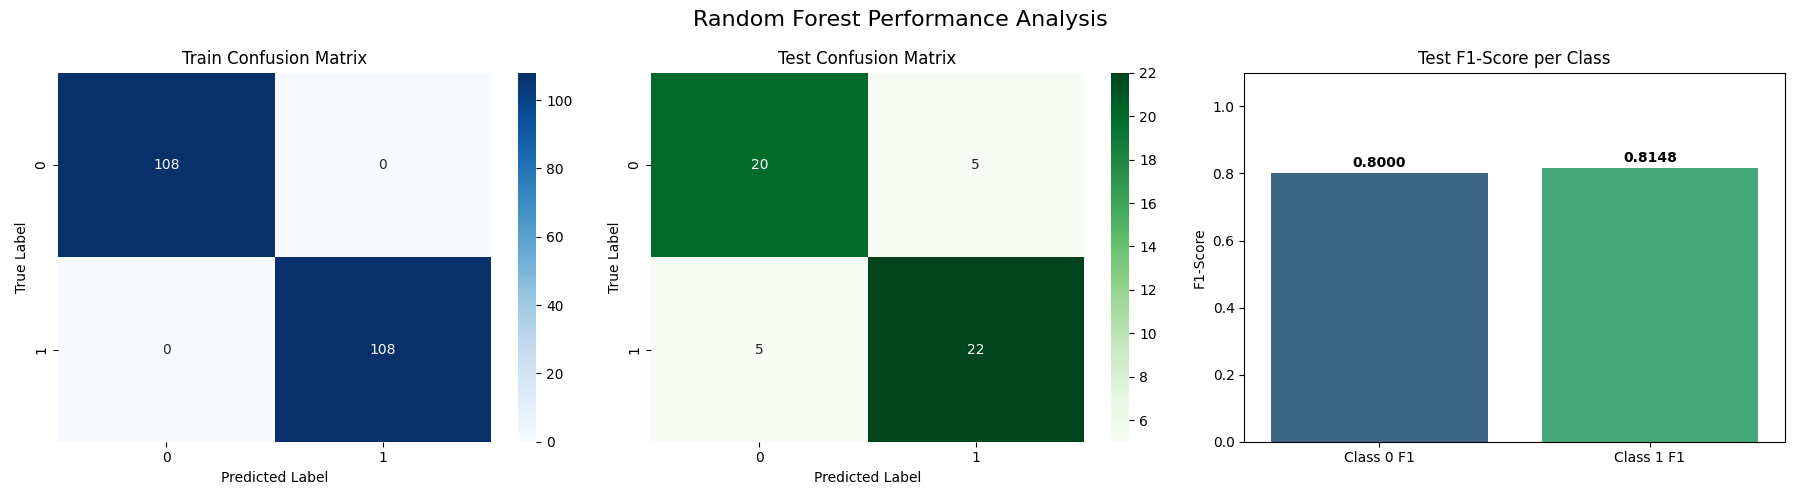
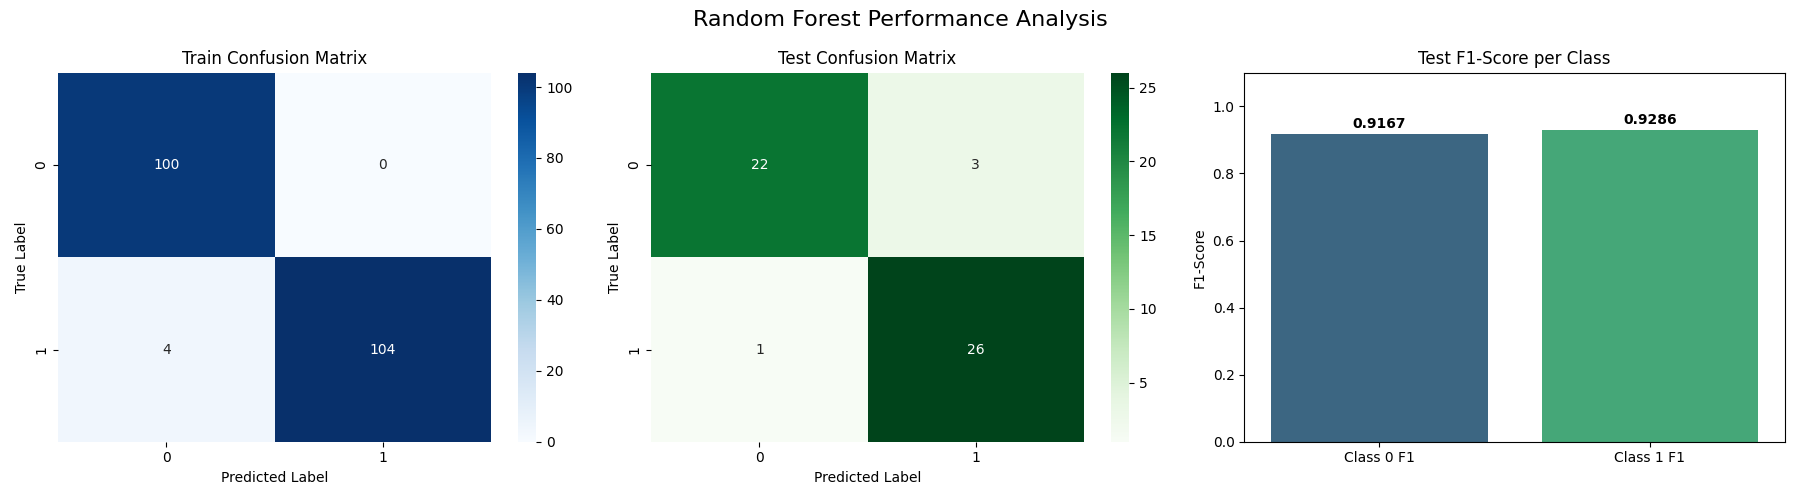
5cv, optuna, smote

diff --git a/models/main.py b/models/main.py
@@ -3,14 +3,22 @@ import numpy as np
 import os
 import matplotlib.pyplot as plt
 import seaborn as sns
-from sklearn.model_selection import train_test_split
+import optuna
+from sklearn.model_selection import train_test_split, cross_val_score, StratifiedKFold
 from sklearn.feature_extraction.text import TfidfVectorizer
 from imblearn.over_sampling import SMOTE
+from imblearn.pipeline import Pipeline
 from sklearn.linear_model import LogisticRegression
 from sklearn.ensemble import RandomForestClassifier
 from sklearn.neural_network import MLPClassifier
 from sklearn.metrics import accuracy_score, f1_score, confusion_matrix, classification_report
+import warnings
 
+
+SEED = 1935990857
+# Suppress warnings for cleaner output
+warnings.filterwarnings('ignore')
+optuna.logging.set_verbosity(optuna.logging.WARNING)
 
 def load_and_preprocess_data(filepath):
     print(f"Loading data from {filepath}...")
@@ -44,6 +52,51 @@ def load_and_preprocess_data(filepath):
     print(df['label'].value_counts(normalize=True))
     
     return df
+
+def objective(trial, model_name, X, y):
+    """
+    Optuna objective function for hyperparameter tuning.
+    Uses Pipeline(SMOTE, Classifier) to prevent data leakage.
+    """
+    if model_name == 'Logistic Regression':
+        C = trial.suggest_float('C', 1e-4, 1e2, log=True)
+        # Using lbfgs solver (default) which supports l2
+        clf = LogisticRegression(C=C, max_iter=1000, random_state=SEED)
+        
+    elif model_name == 'Random Forest':
+        n_estimators = trial.suggest_int('n_estimators', 50, 300)
+        max_depth = trial.suggest_int('max_depth', 5, 50)
+        min_samples_split = trial.suggest_int('min_samples_split', 2, 10)
+        clf = RandomForestClassifier(
+            n_estimators=n_estimators, 
+            max_depth=max_depth, 
+            min_samples_split=min_samples_split, 
+            random_state=SEED
+        )
+        
+    elif model_name == 'MLP / Neural Network':
+        hidden_layer_sizes = trial.suggest_categorical('hidden_layer_sizes', [(50,), (100,), (50, 50), (100, 50)])
+        learning_rate_init = trial.suggest_float('learning_rate_init', 1e-4, 1e-1, log=True)
+        alpha = trial.suggest_float('alpha', 1e-5, 1e-2, log=True)
+        clf = MLPClassifier(
+            hidden_layer_sizes=hidden_layer_sizes, 
+            learning_rate_init=learning_rate_init,
+            alpha=alpha,
+            max_iter=500, 
+            random_state=SEED
+        )
+    
+    # Pipeline: SMOTE -> Classifier
+    pipeline = Pipeline([
+        ('tfidf', TfidfVectorizer(stop_words='english', max_features=5000)),
+        ('smote', SMOTE(random_state=SEED)),
+        ('model', clf)
+    ])
+    
+    # 5-fold CV maximizing F1-score
+    cv = StratifiedKFold(n_splits=5, shuffle=True, random_state=SEED)
+    scores = cross_val_score(pipeline, X, y, cv=cv, scoring='f1')
+    return scores.mean()
 
 def train_and_evaluate(models, X_train, y_train, X_test, y_test):
     results = []
@@ -130,7 +183,7 @@ def main():
         df['text'], df['label'], 
         test_size=0.2, 
         stratify=df['label'], 
-        random_state=42,
+        random_state=SEED,
         shuffle=True
     )
     
@@ -143,31 +196,74 @@ def main():
     print(y_test.value_counts(normalize=True))
     
     # 2. Preprocessing & Vectorization
-    print("\nVectorizing text...")
-    vectorizer = TfidfVectorizer(stop_words='english', max_features=5000)
-    X_train_vec = vectorizer.fit_transform(X_train_raw)
-    X_test_vec = vectorizer.transform(X_test_raw)
+    # print("\nVectorizing text...")
+    # vectorizer = TfidfVectorizer(stop_words='english', max_features=5000)
+    # # X_train_vec = vectorizer.fit_transform(X_train_raw)
+    # # X_test_vec = vectorizer.transform(X_test_raw)
     
-    # 3. Apply SMOTE to training data
-    print("\nApplying SMOTE to balance the training set...")
-    smote = SMOTE(random_state=42)
-    X_train_resampled, y_train_resampled = smote.fit_resample(X_train_vec, y_train)
+    # 4. Hyperparameter Tuning with Optuna
+    print("\n=== Hyperparameter Tuning with Optuna ===")
     
-    print("New Train Set Distribution after SMOTE:")
-    print(y_train_resampled.value_counts(normalize=True))
-    
-    # 4. Model Selection
-    # - Logistic Regression (Classic)
-    # - Random Forest (Classic Ensemble)
-    # - MLP Classifier (Deep Learning - Neural Network)
-    models = {
-        'Logistic Regression': LogisticRegression(max_iter=1000, random_state=42),
-        'Random Forest': RandomForestClassifier(n_estimators=100, random_state=42),
-        'MLP / Neural Network': MLPClassifier(hidden_layer_sizes=(100, 50), max_iter=500, random_state=42)
-    }
-    
-    # 5. Training & Fine-tuning (MLP trains iteratively) & 6. Evaluation
-    results_df = train_and_evaluate(models, X_train_resampled, y_train_resampled, X_test_vec, y_test)
+    model_names = ['Logistic Regression', 'Random Forest', 'MLP / Neural Network']
+    best_models = {}
+
+    for model_name in model_names:
+        print(f"\n--- Tuning {model_name} ---")
+        
+        sampler = optuna.samplers.TPESampler(seed=SEED)
+        study = optuna.create_study(direction='maximize', sampler=sampler)
+        
+        study.optimize(
+            lambda trial: objective(trial, model_name, X_train_raw, y_train),
+            n_trials=50   # reduce from 100 → less overfitting
+        )
+        
+        print(f"Best params: {study.best_params}")
+        print(f"Best CV F1: {study.best_value:.4f}")
+
+        # Rebuild model with best params
+        if model_name == 'Logistic Regression':
+            clf = LogisticRegression(
+                C=study.best_params['C'],
+                max_iter=1000,
+                random_state=SEED
+            )
+            
+        elif model_name == 'Random Forest':
+            clf = RandomForestClassifier(
+                n_estimators=study.best_params['n_estimators'],
+                max_depth=study.best_params['max_depth'],
+                min_samples_split=study.best_params['min_samples_split'],
+                random_state=SEED
+            )
+            
+        elif model_name == 'MLP / Neural Network':
+            clf = MLPClassifier(
+                hidden_layer_sizes=study.best_params['hidden_layer_sizes'],
+                learning_rate_init=study.best_params['learning_rate_init'],
+                alpha=study.best_params['alpha'],
+                max_iter=500,
+                random_state=SEED
+            )
+
+        # ✅ FINAL pipeline (same as CV!)
+        best_models[model_name] = Pipeline([
+            ('tfidf', TfidfVectorizer(stop_words='english', max_features=5000)),
+            ('smote', SMOTE(random_state=SEED)),
+            ('model', clf)
+        ])
+            
+    # # 3. Apply SMOTE to training data (Separate step for Final Training)
+    # print("\nApplying SMOTE to full training set for final model training...")
+    # smote = SMOTE(random_state=SEED)
+    # X_train_resampled, y_train_resampled = smote.fit_resample(X_train_vec, y_train)
+    j
+    # print("New Train Set Distribution after SMOTE:")
+    # print(y_train_resampled.value_counts(normalize=True))
+
+    # 5. Training & Evaluation
+    print("\n=== Final Training & Evaluation ===")
+    results_df = train_and_evaluate(best_models, X_train_raw, y_train, X_test_raw, y_test)
     
     print("\n=== Final Results Table ===")
     print(results_df)
